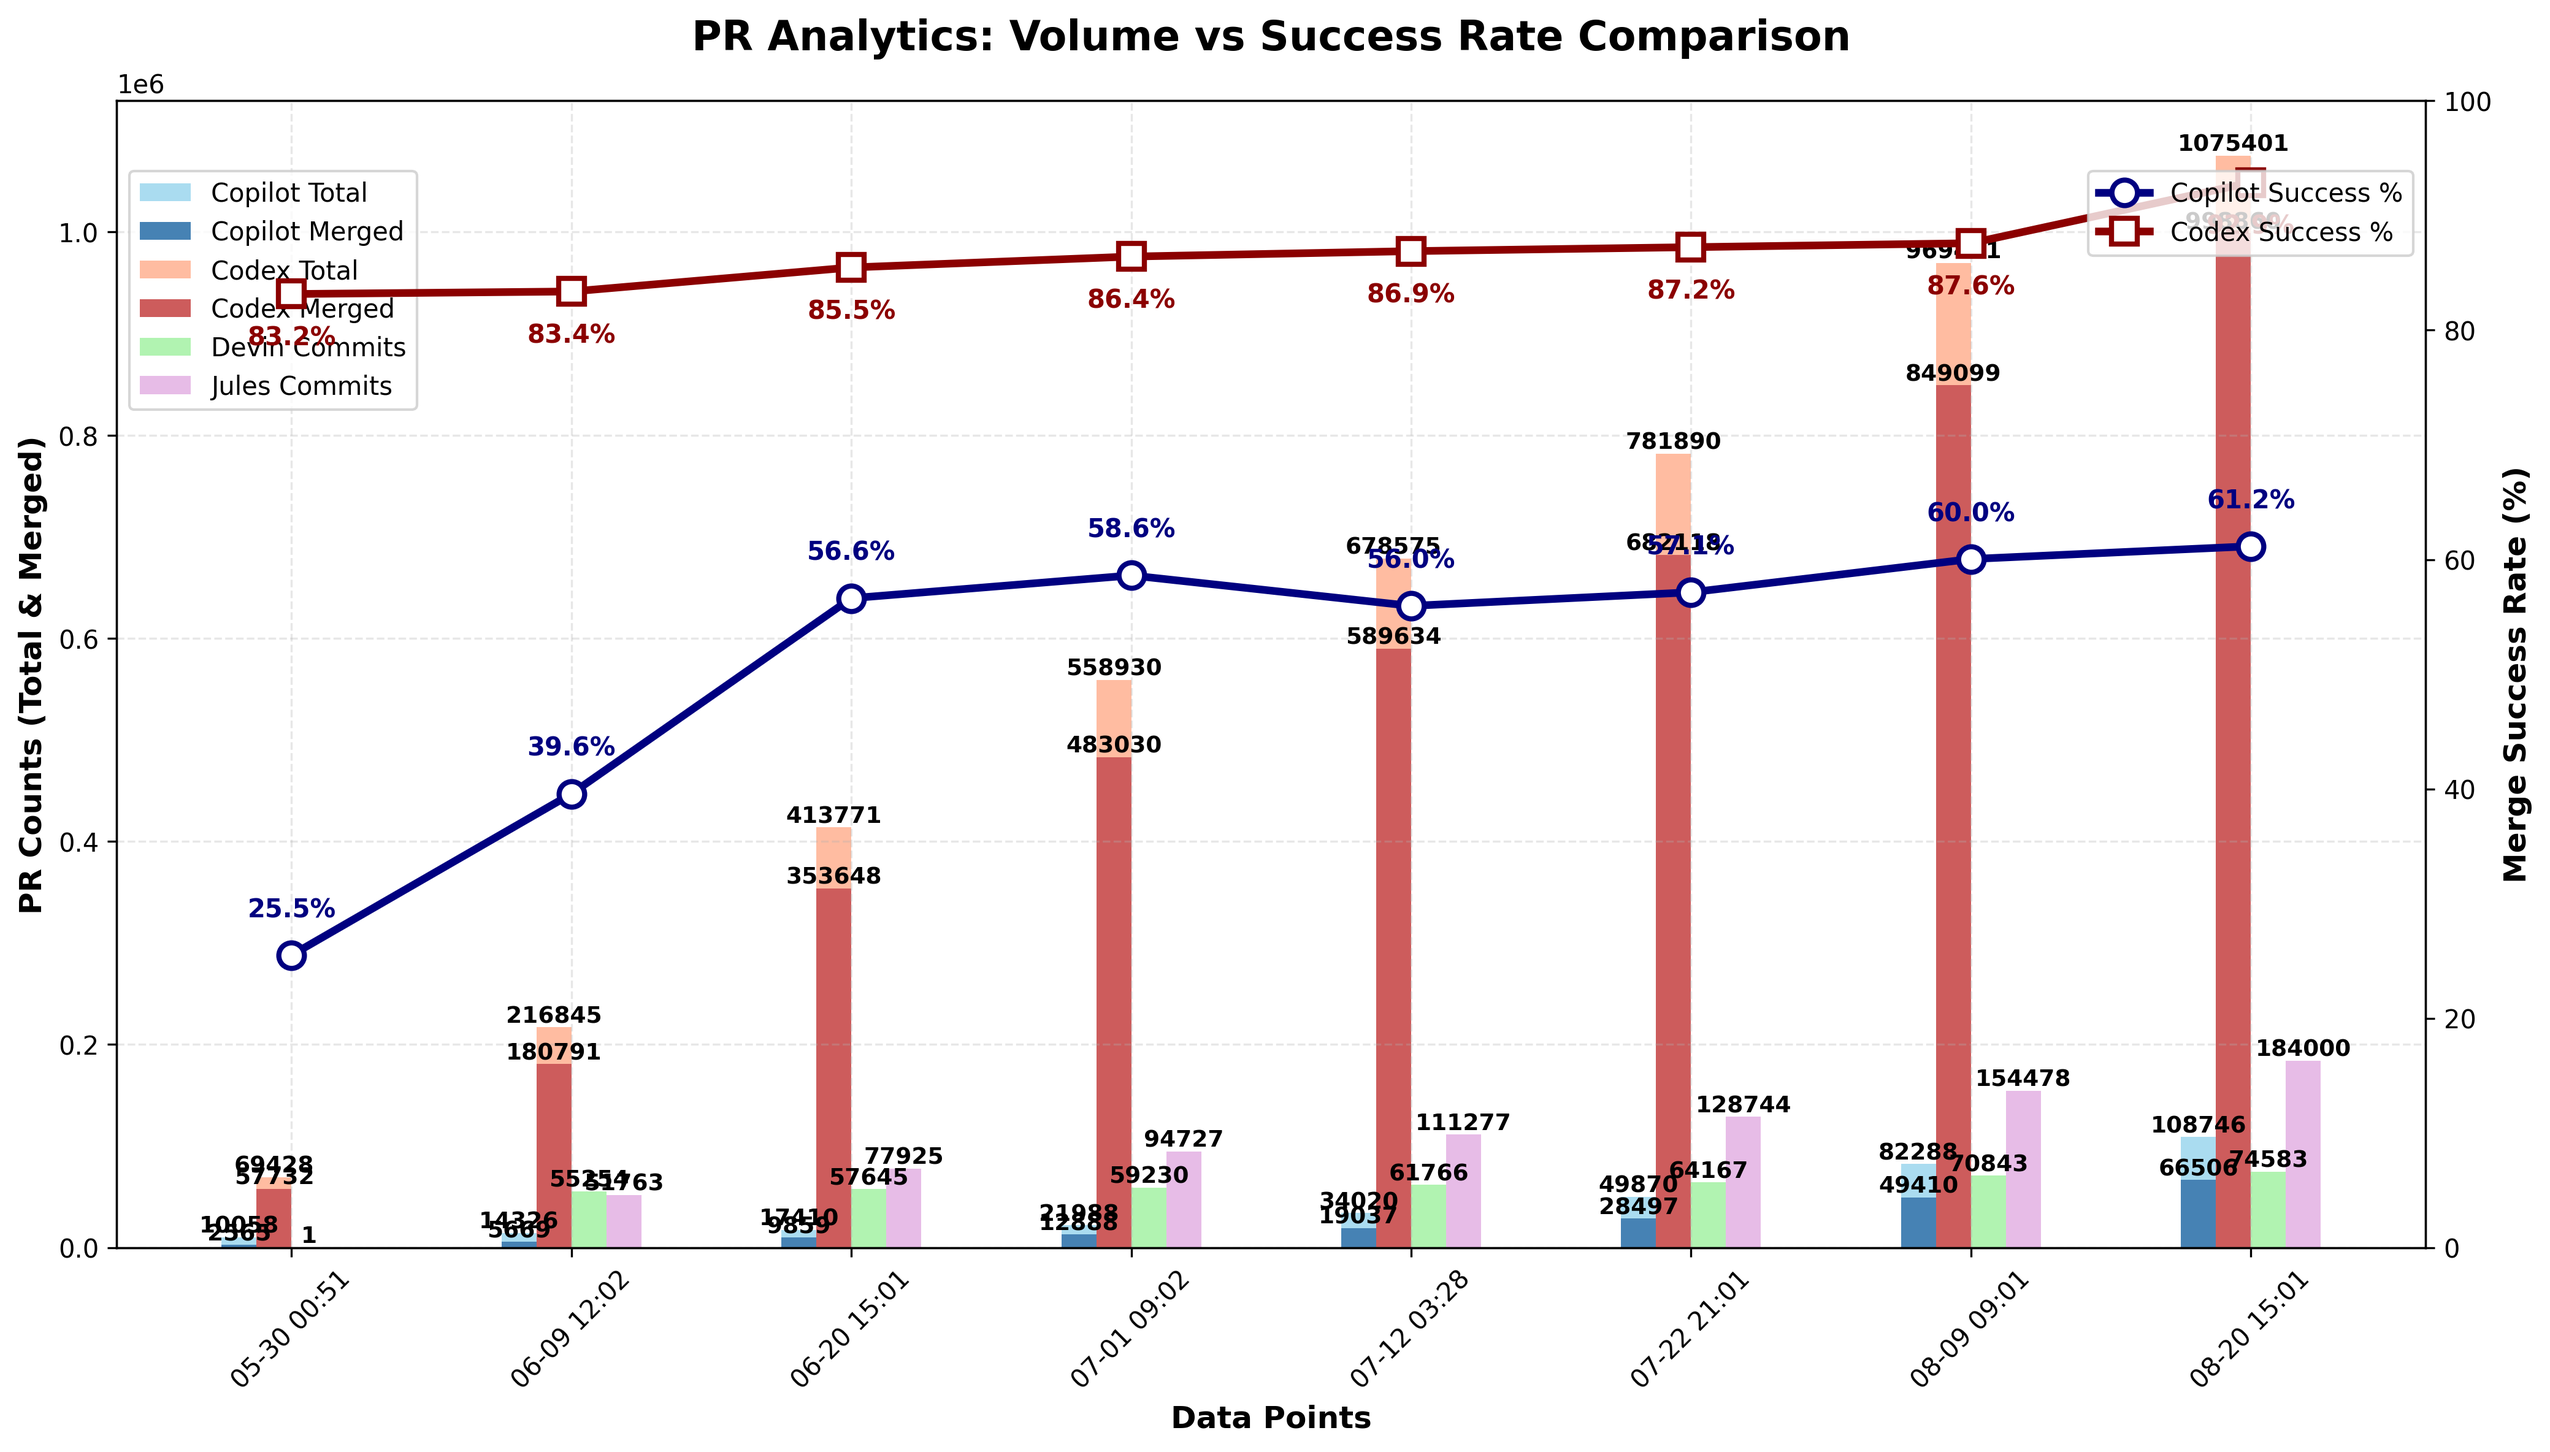
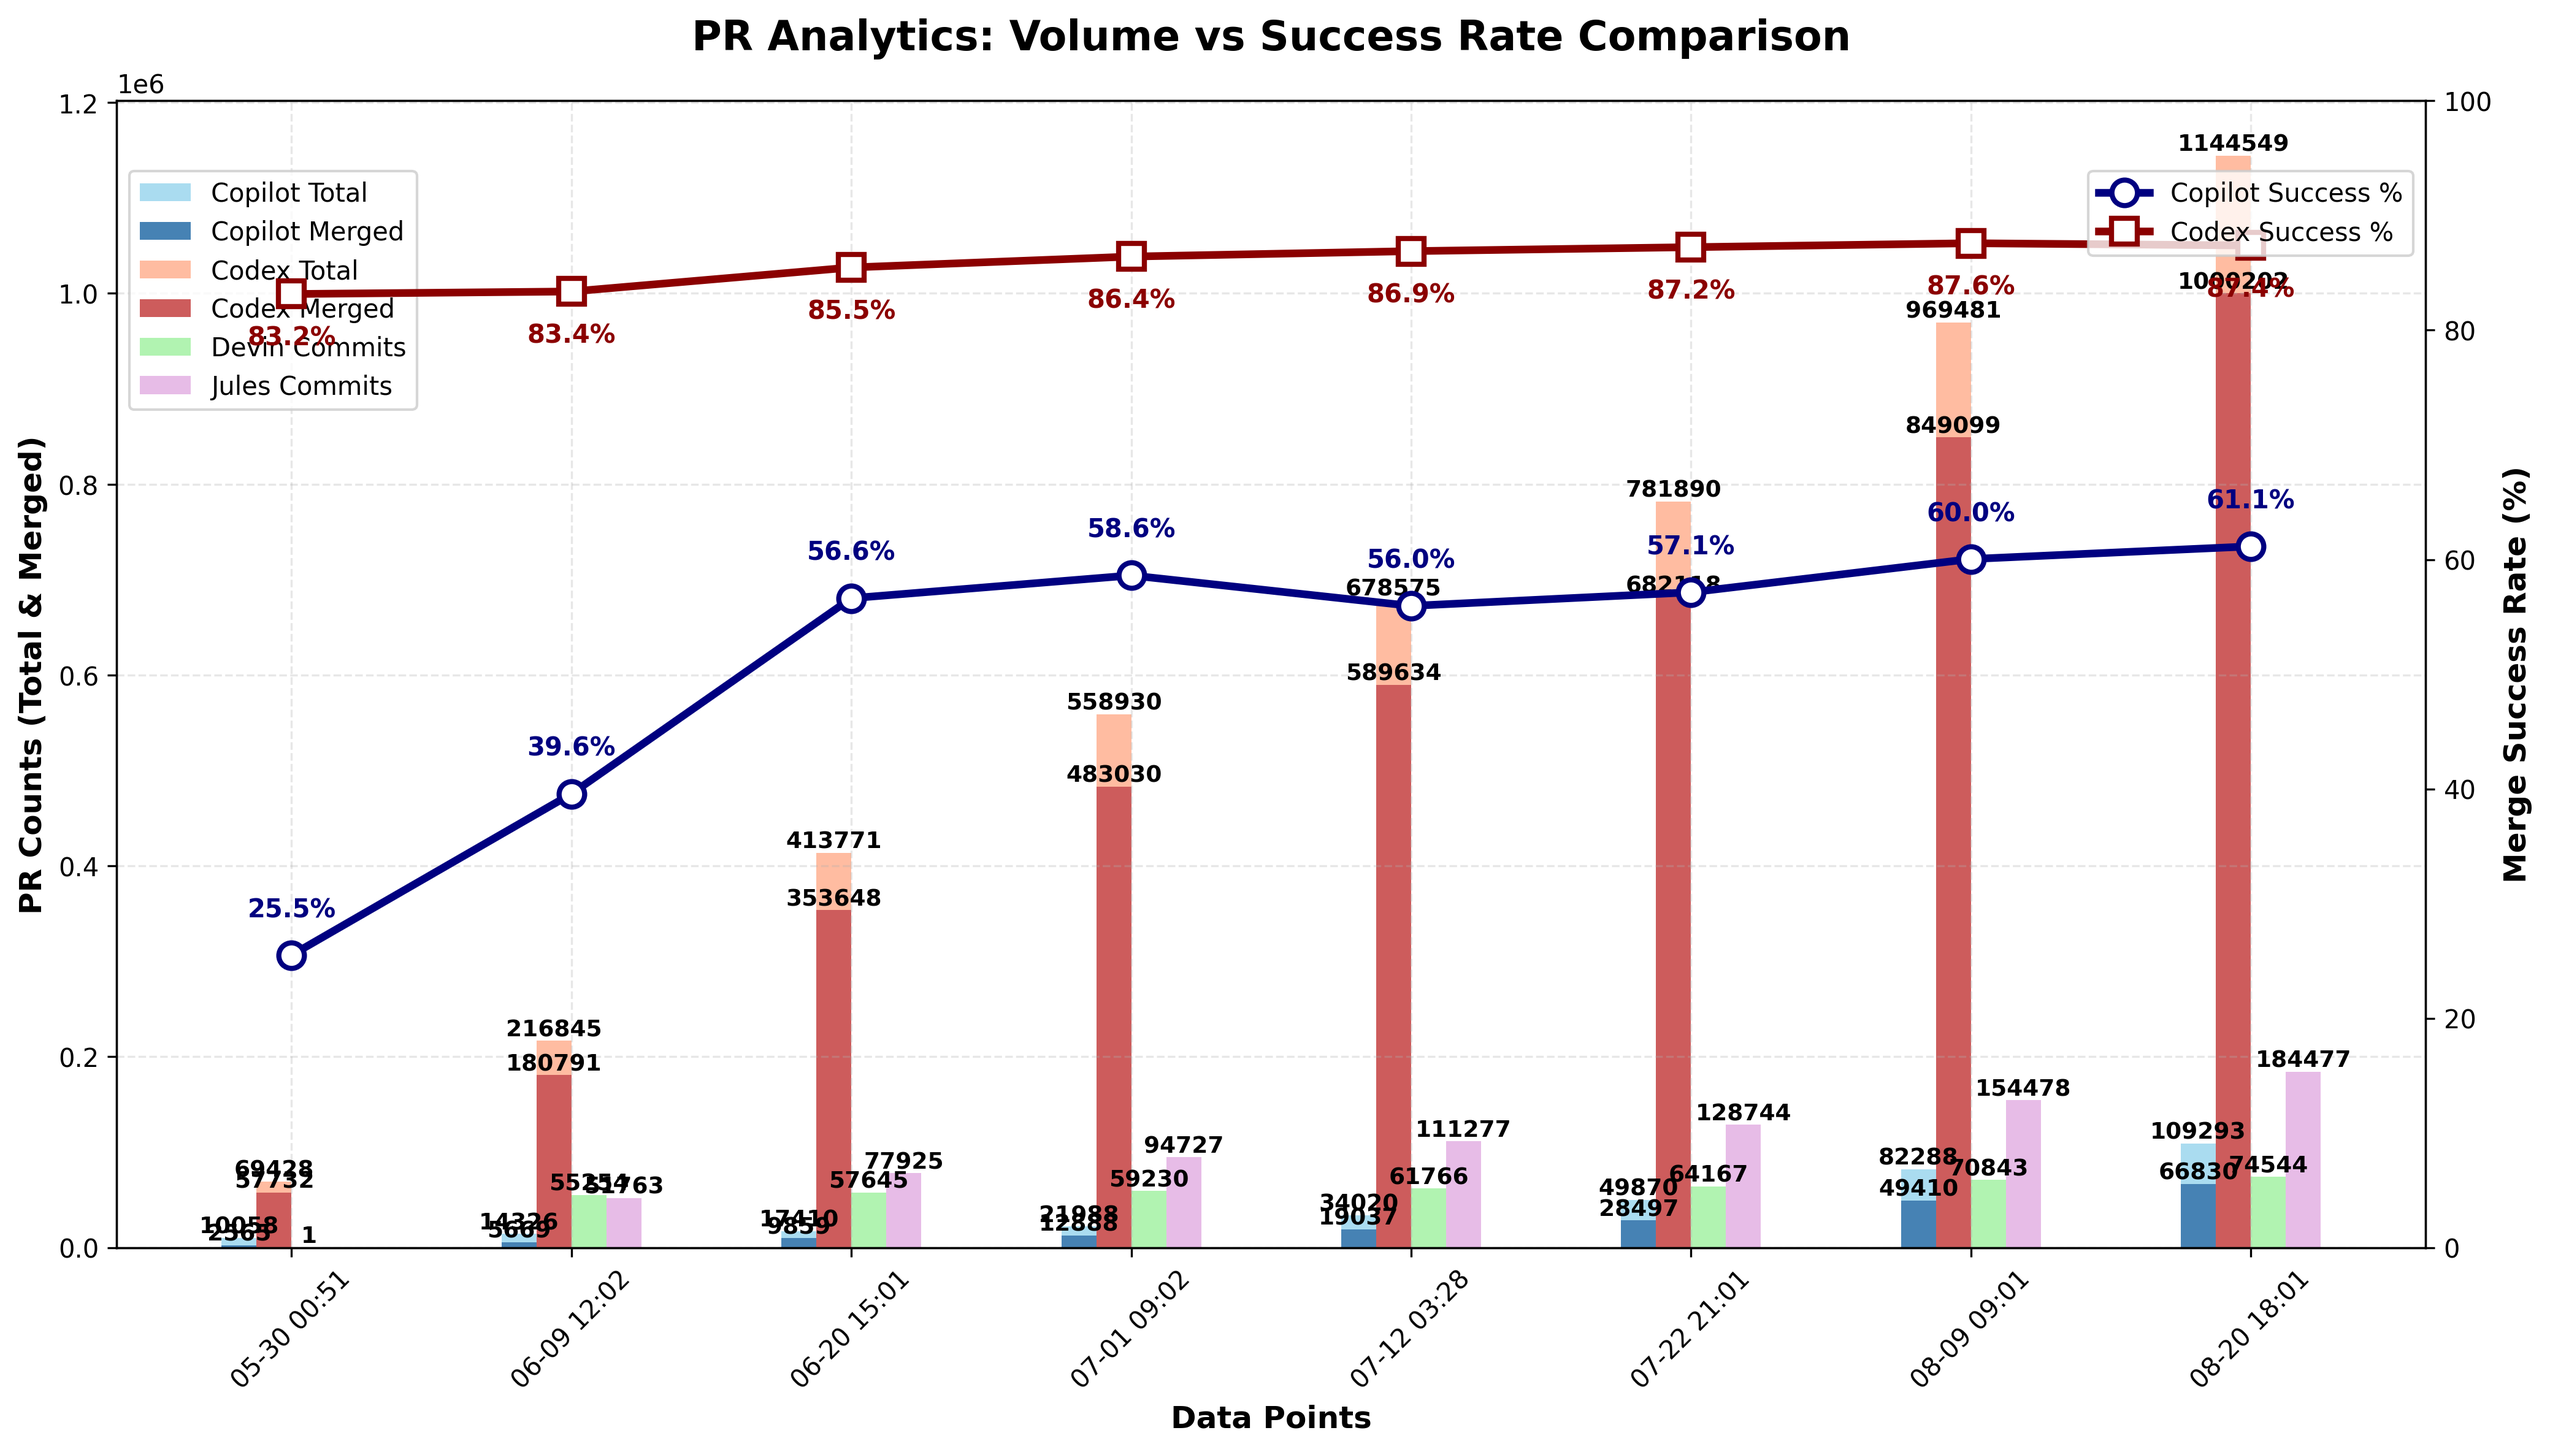
chore: update PR‑approval chart

diff --git a/docs/index.html b/docs/index.html
@@ -650,6 +650,7 @@
                         <td>N/A</td>
                         <td>N/A</td>
                         <td>N/A</td>
+                        <td>N/A</td>
                     </tr>
                     <tr>
                         <td>Codex</td>
@@ -1258,27 +1259,28 @@
                         <td>N/A</td>
                         <td>N/A</td>
                         <td>N/A</td>
+                        <td>N/A</td>
                     </tr>
                 <tr>
                         <td>Devin</td>
                         <td>N/A</td>
                         <td>N/A</td>
                         <td>N/A</td>
-                        <td>74,583</td>
+                        <td>74,544</td>
                     </tr>
                     <tr>
                         <td>Jules</td>
                         <td>N/A</td>
                         <td>N/A</td>
                         <td>N/A</td>
-                        <td>184,000</td>
+                        <td>184,477</td>
                     </tr>
                     </tbody>
             </table>
         </section>
 
         <footer>
-            <p>Last updated: <span id="last-updated">August 20, 2025 15:01 UTC</span></p>
+            <p>Last updated: <span id="last-updated">August 20, 2025 18:01 UTC</span></p>
             <p><a href="https://github.com/aavetis/ai-pr-watcher">View on GitHub</a></p>
         </footer>
     </div>

diff --git a/README.md b/README.md
@@ -19,7 +19,7 @@ Explore the GitHub search queries used:
 
 | Service | Total PRs | Merged PRs | Merge Rate | Total Commits |
 | ------- | --------- | ---------- | ---------- | ------------- |
-| Copilot | 108,746 | 66,506 | 61.16% | N/A           |
-| Codex   | 1,075,401 | 998,860 | 92.88% | N/A           |
-| Devin   | N/A       | N/A        | N/A        | 74,583 |
-| Jules   | N/A       | N/A        | N/A        | 184,000 |
+| Copilot | 109,293 | 66,830 | 61.15% | N/A           |
+| Codex   | 1,144,549 | 1,000,202 | 87.39% | N/A           |
+| Devin   | N/A       | N/A        | N/A        | 74,544 |
+| Jules   | N/A       | N/A        | N/A        | 184,477 |
